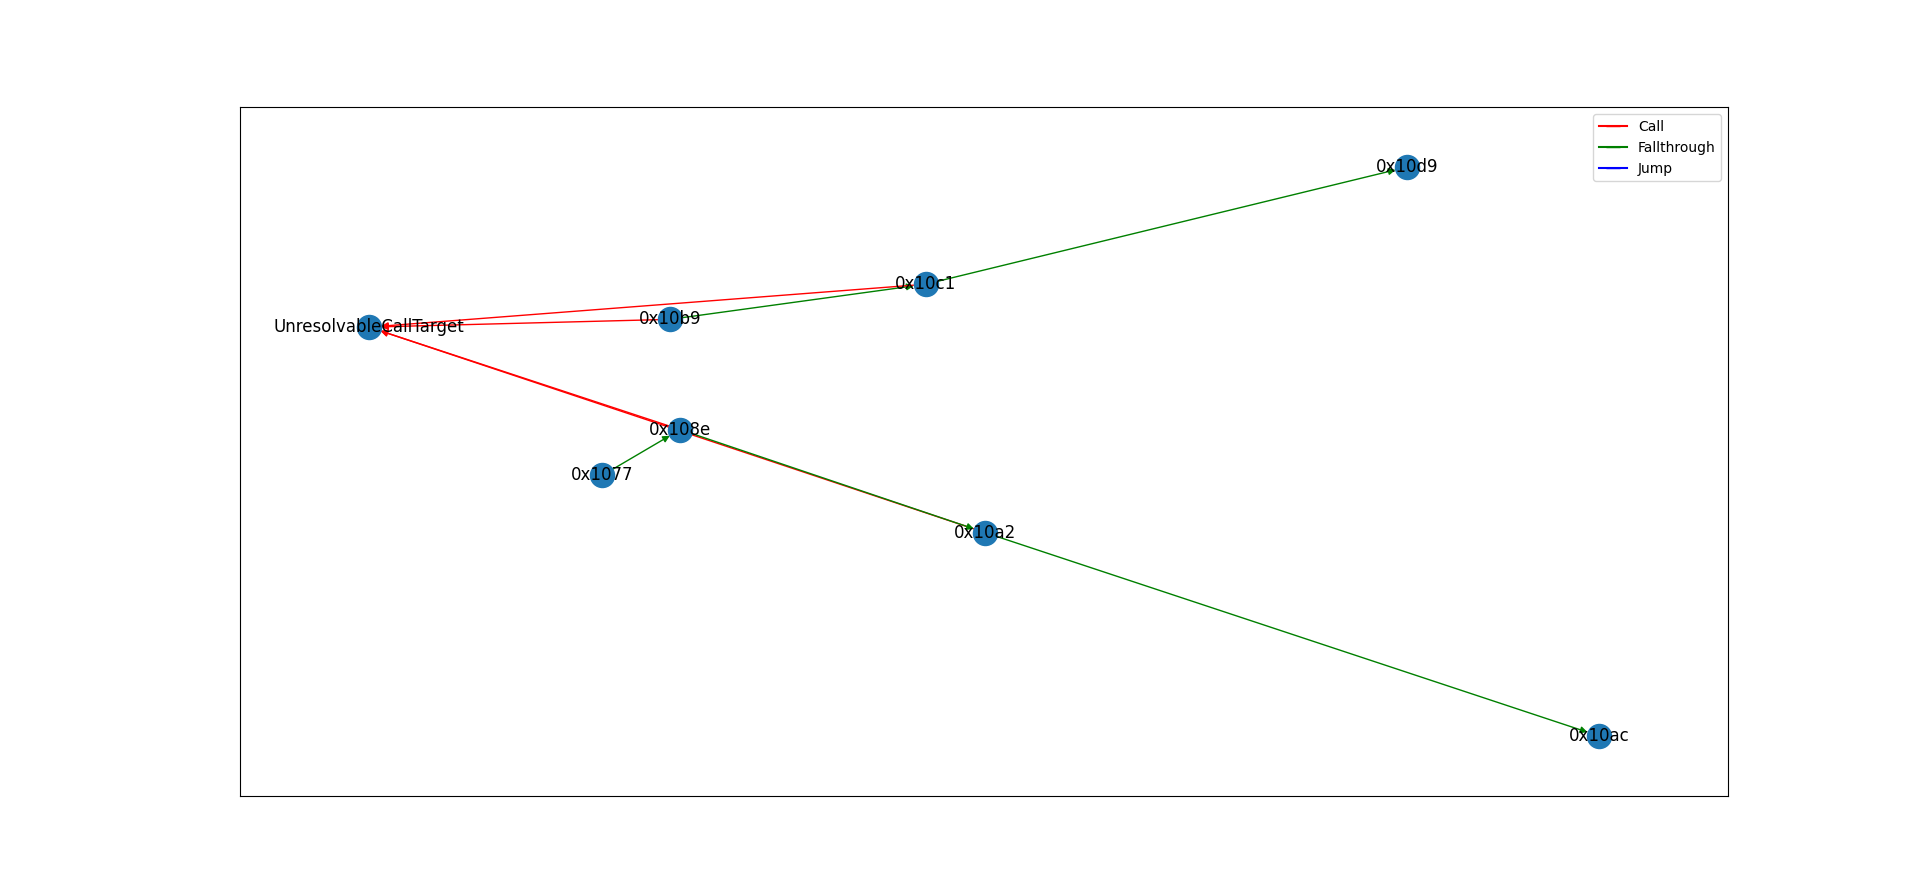
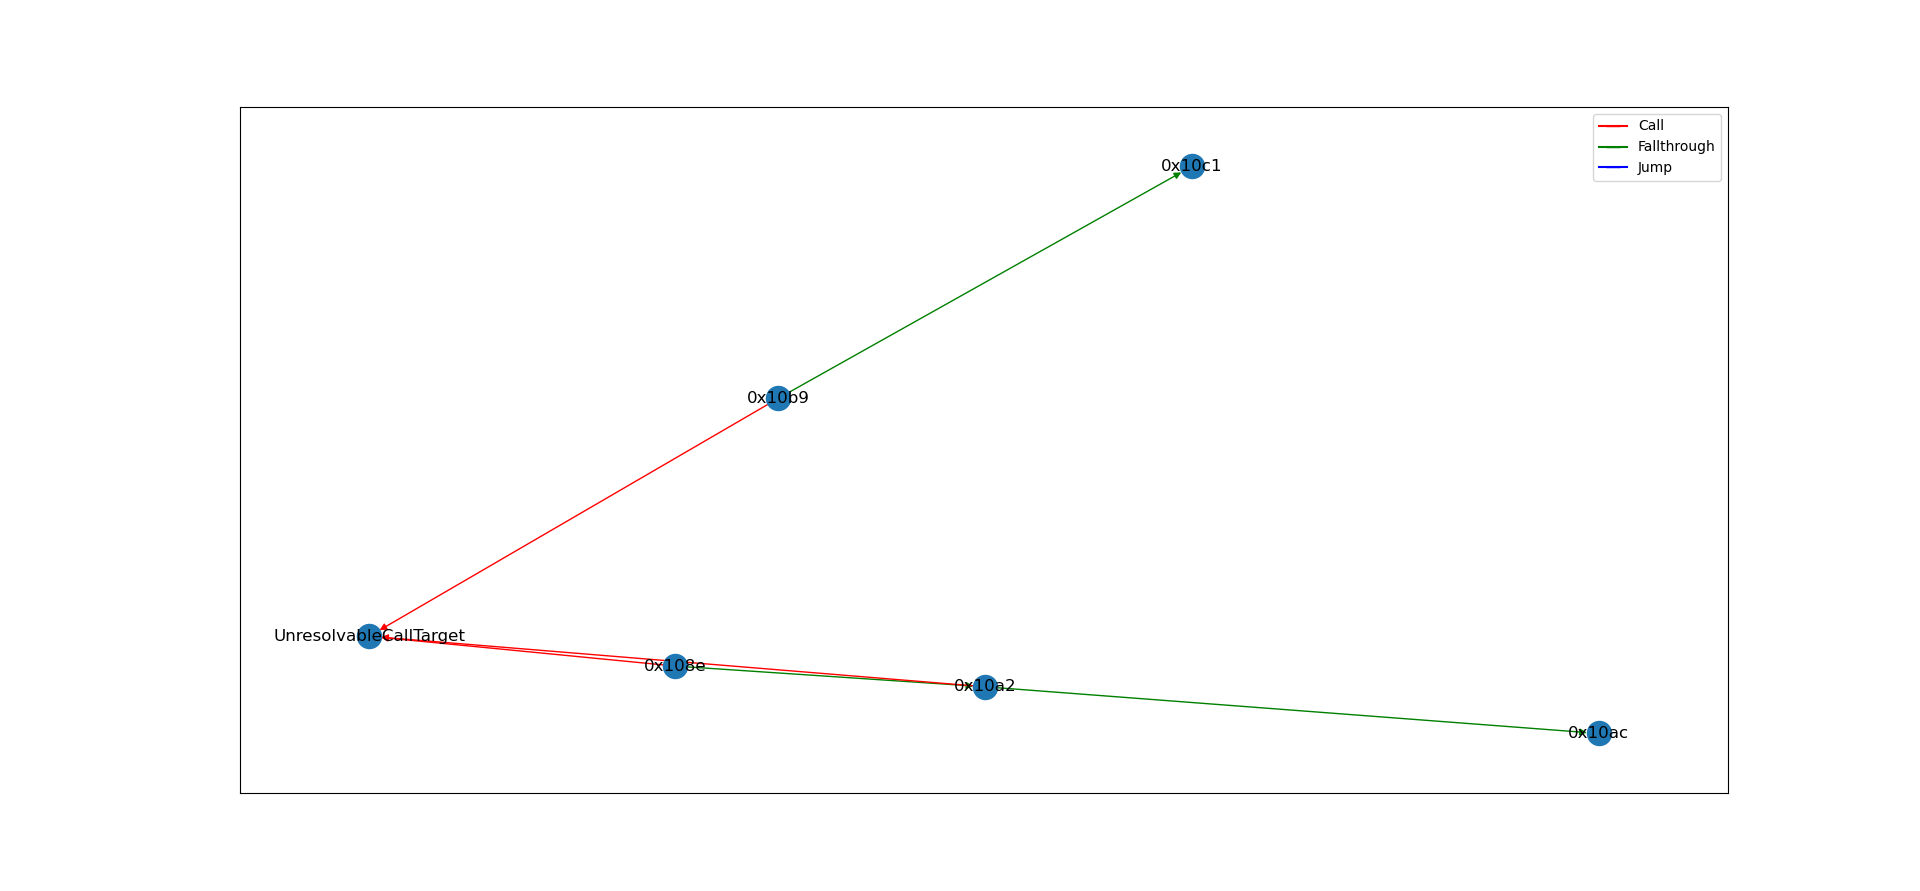
Included RPA check in fullAnalysis, uploaded new graphs for RPA

diff --git a/fullAnalysis.py b/fullAnalysis.py
@@ -93,8 +93,8 @@ def set_original_addresses(graph):
 
 
 def purge_technique(graph):
-    min_addr = 0x106b
-    max_addr = 0x109b
+    min_addr = 0x108e
+    max_addr = 0x10bf
     for node in graph.copy():
         if node == 'UnresolvableCallTarget' or node == 'UnresolvableJumpTarget':
             graph.remove_node(node)
@@ -152,7 +152,13 @@ def pin_trace_creation(pickles_folder):
 
 
 def RPA_check(graph):
-    pass
+    list_nodes = list(graph.nodes())
+    for node in list_nodes:
+        if graph.nodes()[node]:
+            for bytes in graph.nodes()[node]['bytes']:
+                if "83 04 24" in bytes:
+                    if graph.nodes()[node]['bytes'][-1] == "C2" or graph.nodes()[node]['bytes'][-1] == "C3":
+                        print(f"{'In BB'} {node} {'there might be a RPA technique'}")
 
 
 def ID_check(graph):
@@ -201,7 +207,7 @@ def CJWST_check(graph):
 
 
 def techniques_check(name, graph):
-    print(name)
+    print(f"{name}")
     CJWST_check(graph)
     CJWCC_check(graph)
     ID_check(graph)
@@ -217,6 +223,7 @@ def main():
     ida = pickle.load(open(pickles_folder + "ida.p", "rb"))
     radare = pickle.load(open(pickles_folder + "radare.p", "rb"))
 
+    print(f"{'Anti-disassembly techniques check'}")
     techniques_check("Angr", angr)
     techniques_check("Ghidra", ghidra)
     techniques_check("Ida", ida)

diff --git a/Pickles/ReturnPointerAbuse/differences.md b/Pickles/ReturnPointerAbuse/differences.md
@@ -1,7 +1,7 @@
 # Return pointer abuse
 
 
-Addresses of the function that contains the technique: 0x1077 -> 0x10D3
+Addresses of the function that contains the technique: 0x108E -> 0x10BF
 
 
 ## Pin subset check on original addresses
@@ -26,48 +26,49 @@ Addresses present on the Pin trace that are missing in Radare: 120
 
 
 Angr
-nodes_count 10
-edges_count 11
+nodes_count 7
+edges_count 7
 func_beg_count 2
 dir_call_count 1
-indir_call_count 4
-cond_jump_count 1
-dir_jump_count 1
+indir_call_count 3
+cond_jump_count 0
+dir_jump_count 0
 indir_jump_count 0
 ret_count 1
 
 Ghidra
-nodes_count 6
-edges_count 6
+nodes_count 4
+edges_count 4
 func_beg_count 0
 dir_call_count 0
 indir_call_count 2
-cond_jump_count 1
-dir_jump_count 1
+cond_jump_count 0
+dir_jump_count 0
 indir_jump_count 0
 ret_count 1
 
 Ida
-nodes_count 10
-edges_count 10
+nodes_count 7
+edges_count 6
 func_beg_count 0
 dir_call_count 1
-indir_call_count 3
-cond_jump_count 1
-dir_jump_count 1
+indir_call_count 2
+cond_jump_count 0
+dir_jump_count 0
 indir_jump_count 0
 ret_count 1
 
 Radare
-nodes_count 6
-edges_count 5
+nodes_count 4
+edges_count 3
 func_beg_count 0
 dir_call_count 1
 indir_call_count 1
-cond_jump_count 1
-dir_jump_count 1
+cond_jump_count 0
+dir_jump_count 0
 indir_jump_count 0
 ret_count 1
+
 
 ## Jaccard similarity check on nodes
 
@@ -119,20 +120,20 @@ Radare vs Ida 0.5
 
 
 Ghidra vs radare 1.0
-Ghidra vs angr 10.0
-Ghidra vs ida 12.0
+Ghidra vs angr 7.0
+Ghidra vs ida 8.0
 
 
 Radare vs ghidra 1.0
-Radare vs angr 11.0
-Radare vs ida 11.0
+Radare vs angr 8.0
+Radare vs ida 7.0
 
 
-Angr vs ghidra 10.0
-Angr vs radare 11.0
+Angr vs ghidra 7.0
+Angr vs radare 8.0
 Angr vs ida 2.0
 
 
-Ida vs ghidra 12.0
-Ida vs radare 11.0
+Ida vs ghidra 8.0
+Ida vs radare 7.0
 Ida vs angr 2.0
